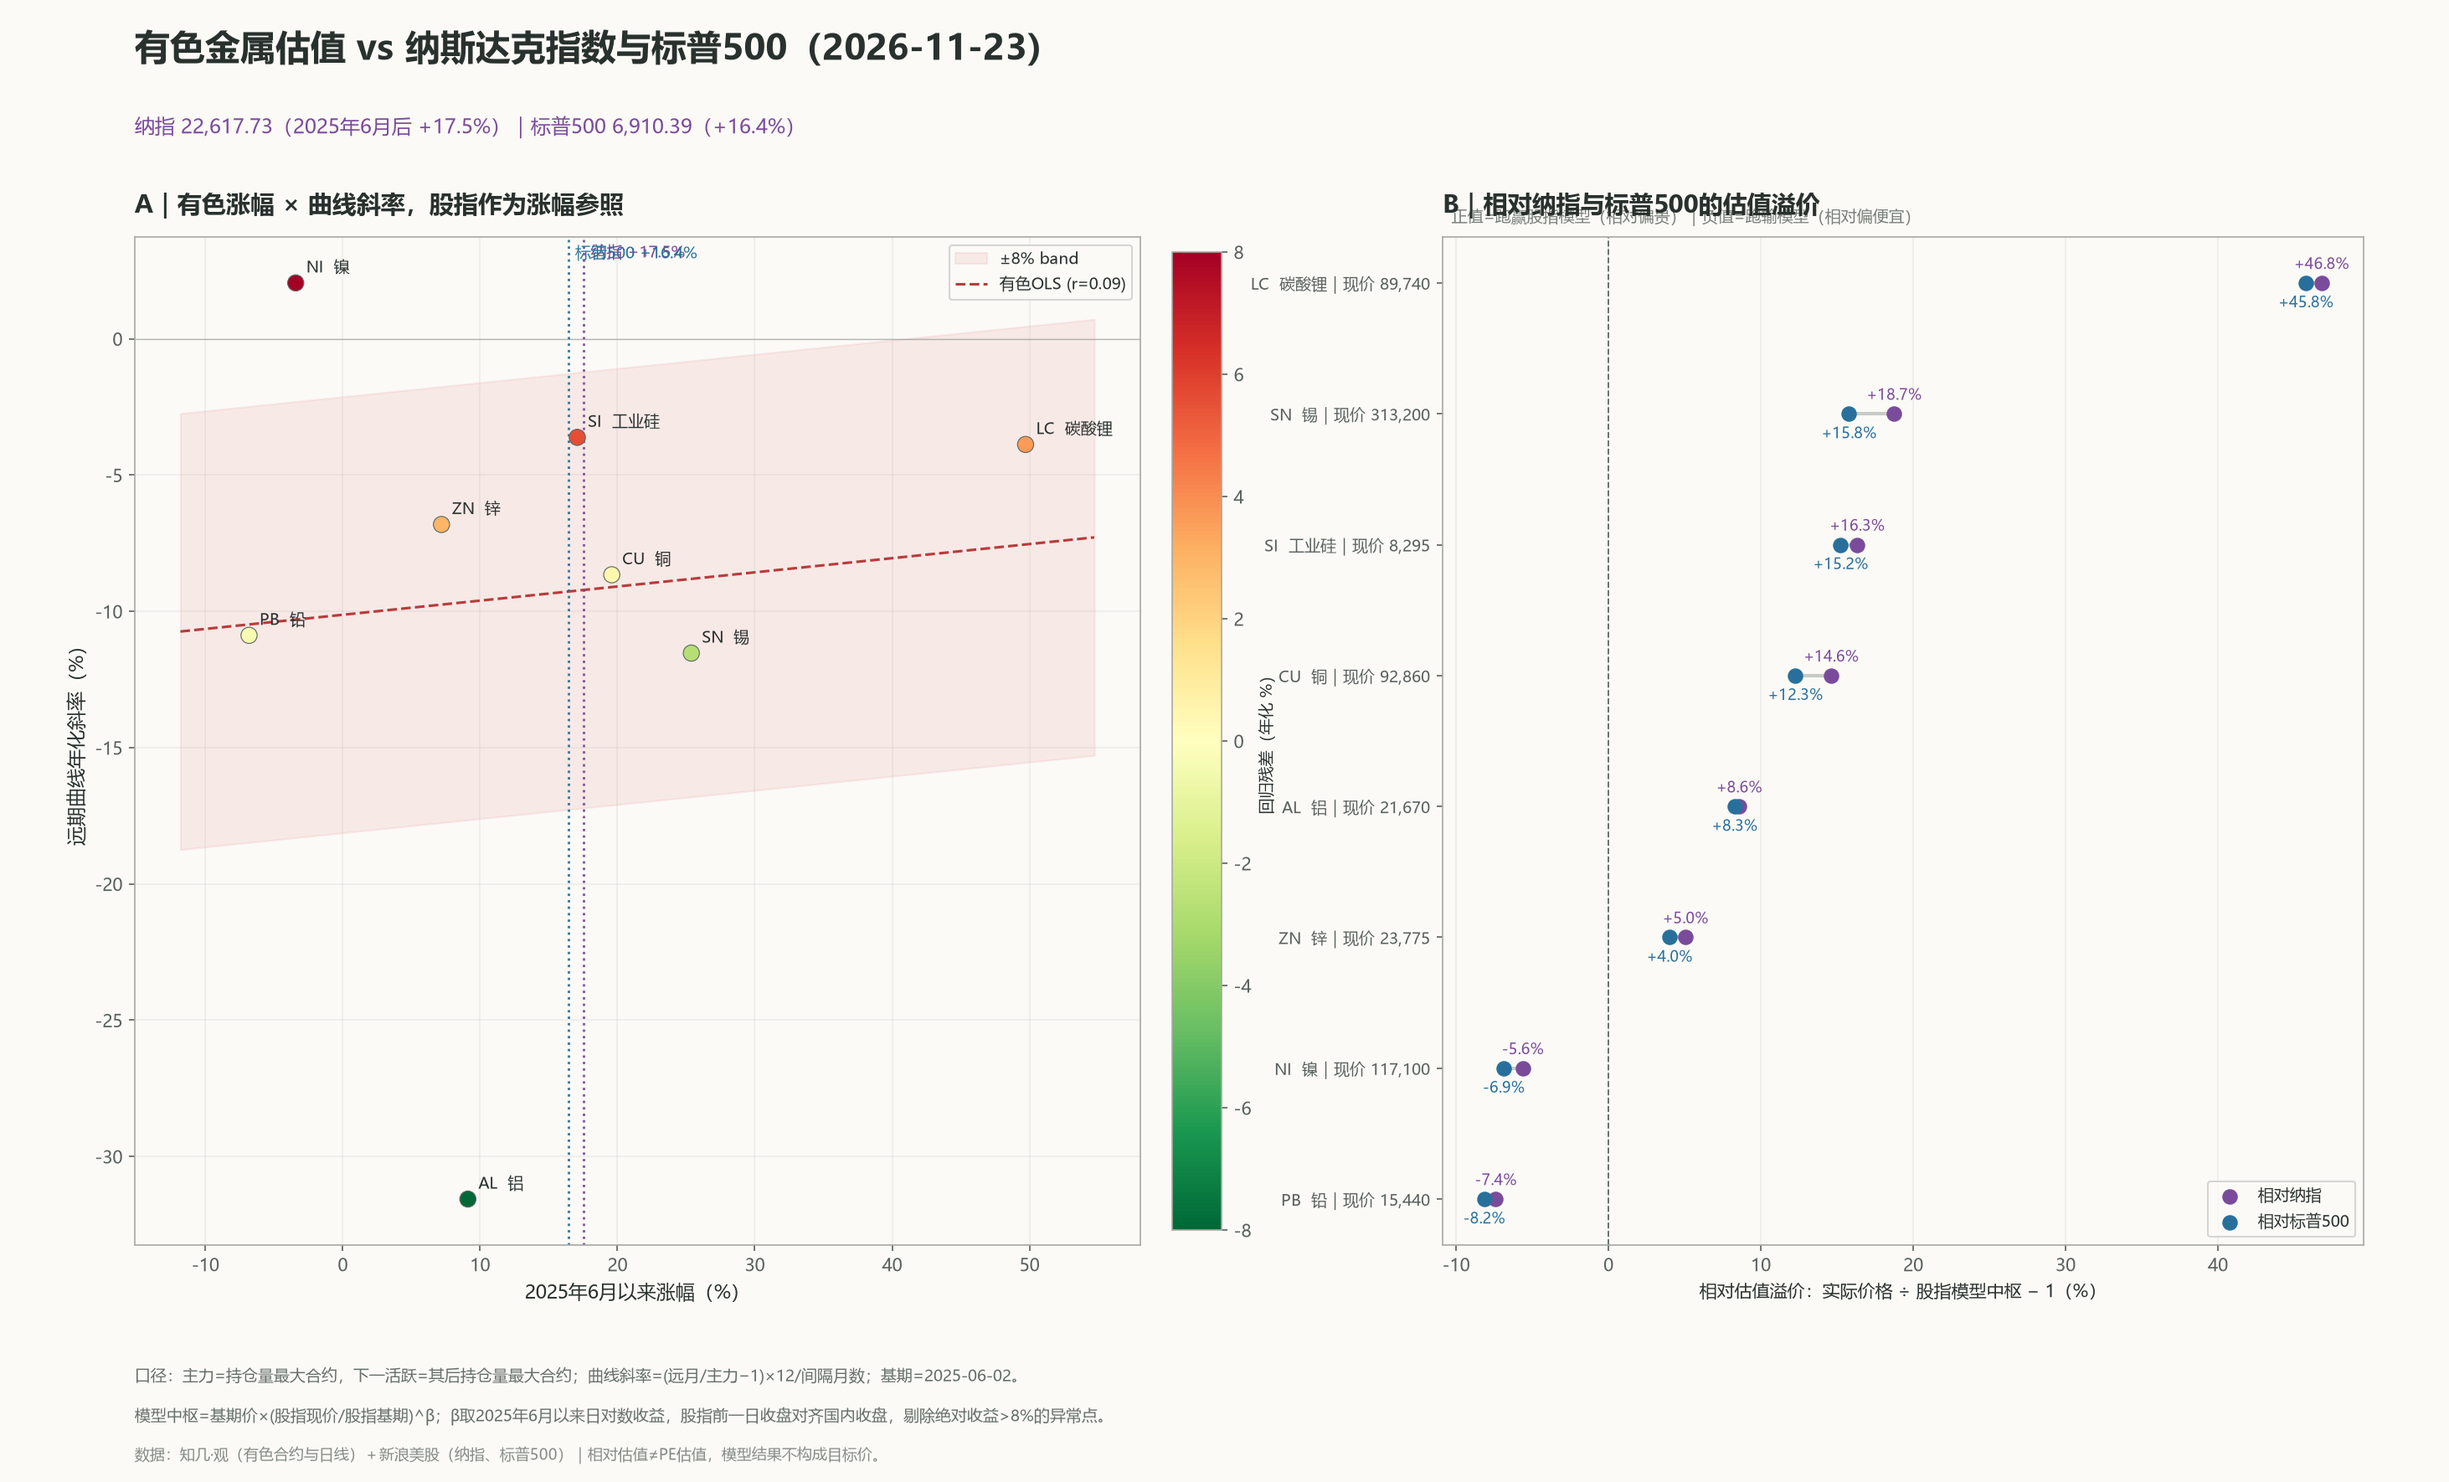
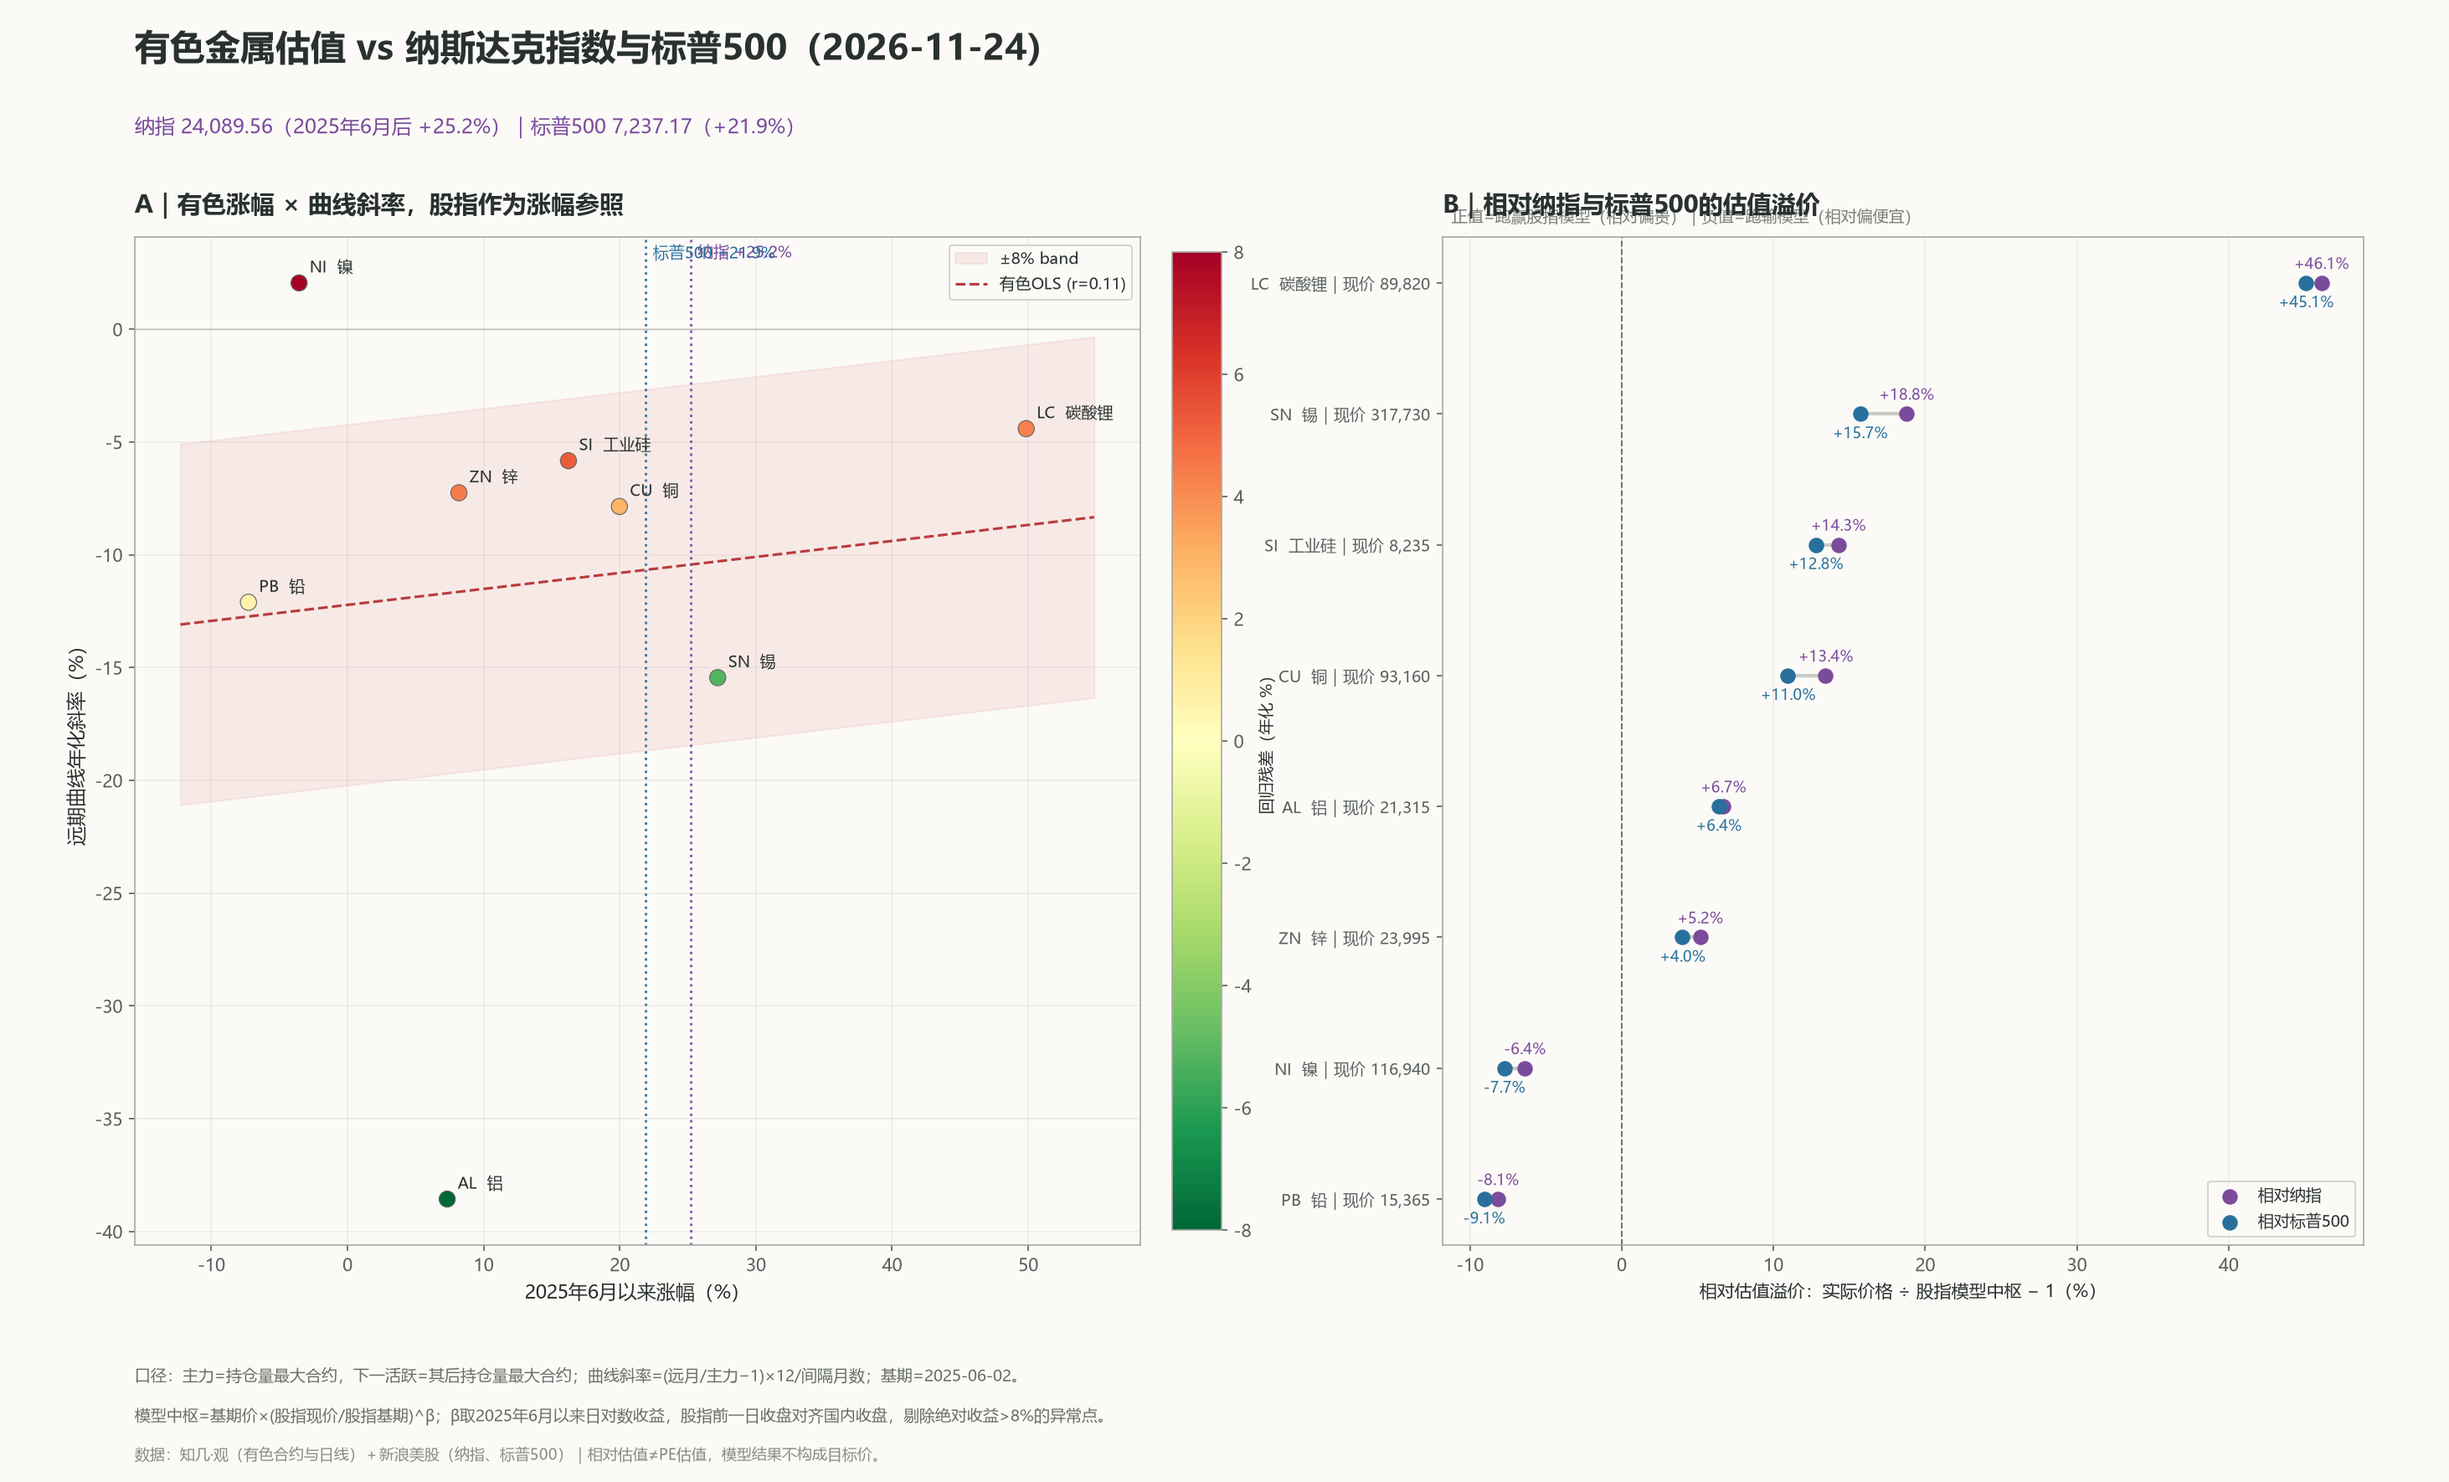
Update metals equity valuation 2026-11-24

diff --git a/valuation/index.html b/valuation/index.html
@@ -1,3 +1,3 @@
 <!doctype html><html lang='zh-CN'><head><meta charset='utf-8'><meta name='viewport' content='width=device-width,initial-scale=1'><title>有色估值 vs 纳指与标普500</title><style>
 body{margin:0;background:#f5f1e8;color:#26332e;font:14px/1.65 -apple-system,BlinkMacSystemFont,'Segoe UI','Microsoft YaHei',sans-serif}main{max-width:1180px;margin:auto;padding:42px 22px}h1{font-family:Georgia,'Songti SC',serif;font-size:34px;margin:0 0 10px}.sub{color:#7b4b9b;font-size:16px}.note{color:#746f65;font-size:12px;margin:12px 0 24px}img{display:block;width:100%;height:auto;background:#fbfaf7;border:1px solid #d8d1c3}.actions{margin:18px 0 28px;display:flex;gap:16px}a{color:#a34f39}table{width:100%;border-collapse:collapse;background:#fbf9f3;font-size:12px}th,td{padding:9px 8px;border-bottom:1px solid #ddd5c7;text-align:right;white-space:nowrap}th:first-child,td:first-child{text-align:left}.pos{color:#a34f39}.neg{color:#28709b}footer{font-size:11px;color:#746f65;margin-top:24px}@media(max-width:700px){.table{overflow-x:auto}h1{font-size:27px}}
-</style></head><body><main><h1>有色金属估值 vs 纳斯达克指数与标普500</h1><div class='sub'>纳指 22,617.73（2025年6月后 +17.5%）｜标普500 6,910.39（+16.4%）</div><div class='note'>基期：国内 2025-06-03、美股 2025-06-02｜最新：2026-11-23｜相对估值不是 PE，模型结果不构成目标价。</div><img src='chart.png' alt='有色金属与纳斯达克指数和标普500估值对照图'><div class='actions'><a href='data.csv' download>下载完整 CSV ↓</a><a href='../'>返回书桌 ↗</a></div><div class='table'><table><thead><tr><th>品种</th><th>当前主力</th><th>6月后涨幅</th><th>相对纳指</th><th>相对标普</th><th>远月年化斜率</th></tr></thead><tbody><tr><td><b>CU</b> 铜</td><td>92,860</td><td>+19.6%</td><td class="pos">+14.6%</td><td class="pos">+12.3%</td><td>-8.7%</td></tr><tr><td><b>AL</b> 铝</td><td>21,670</td><td>+9.1%</td><td class="pos">+8.6%</td><td class="pos">+8.3%</td><td>-31.6%</td></tr><tr><td><b>ZN</b> 锌</td><td>23,775</td><td>+7.2%</td><td class="pos">+5.0%</td><td class="pos">+4.0%</td><td>-6.8%</td></tr><tr><td><b>PB</b> 铅</td><td>15,440</td><td>-6.8%</td><td class="neg">-7.4%</td><td class="neg">-8.2%</td><td>-10.9%</td></tr><tr><td><b>NI</b> 镍</td><td>117,100</td><td>-3.4%</td><td class="neg">-5.6%</td><td class="neg">-6.9%</td><td>+2.0%</td></tr><tr><td><b>SN</b> 锡</td><td>313,200</td><td>+25.4%</td><td class="pos">+18.7%</td><td class="pos">+15.8%</td><td>-11.5%</td></tr><tr><td><b>LC</b> 碳酸锂</td><td>89,740</td><td>+49.7%</td><td class="pos">+46.8%</td><td class="pos">+45.8%</td><td>-3.9%</td></tr><tr><td><b>SI</b> 工业硅</td><td>8,295</td><td>+17.1%</td><td class="pos">+16.3%</td><td class="pos">+15.2%</td><td>-3.6%</td></tr></tbody></table></div><footer>数据：知几·观 + 新浪美股。模型中枢=基期价×(股指现价/基期)^β；β自2025年6月起，股指前一日收盘对齐国内收盘，剔除绝对收益>8%的异常点。每日自动更新。</footer></main></body></html>
+</style></head><body><main><h1>有色金属估值 vs 纳斯达克指数与标普500</h1><div class='sub'>纳指 24,089.56（2025年6月后 +25.2%）｜标普500 7,237.17（+21.9%）</div><div class='note'>基期：国内 2025-06-03、美股 2025-06-02｜最新：2026-11-24｜相对估值不是 PE，模型结果不构成目标价。</div><img src='chart.png' alt='有色金属与纳斯达克指数和标普500估值对照图'><div class='actions'><a href='data.csv' download>下载完整 CSV ↓</a><a href='../'>返回书桌 ↗</a></div><div class='table'><table><thead><tr><th>品种</th><th>当前主力</th><th>6月后涨幅</th><th>相对纳指</th><th>相对标普</th><th>远月年化斜率</th></tr></thead><tbody><tr><td><b>CU</b> 铜</td><td>93,160</td><td>+20.0%</td><td class="pos">+13.4%</td><td class="pos">+11.0%</td><td>-7.9%</td></tr><tr><td><b>AL</b> 铝</td><td>21,315</td><td>+7.3%</td><td class="pos">+6.7%</td><td class="pos">+6.4%</td><td>-38.6%</td></tr><tr><td><b>ZN</b> 锌</td><td>23,995</td><td>+8.2%</td><td class="pos">+5.2%</td><td class="pos">+4.0%</td><td>-7.3%</td></tr><tr><td><b>PB</b> 铅</td><td>15,365</td><td>-7.3%</td><td class="neg">-8.1%</td><td class="neg">-9.1%</td><td>-12.1%</td></tr><tr><td><b>NI</b> 镍</td><td>116,940</td><td>-3.6%</td><td class="neg">-6.4%</td><td class="neg">-7.7%</td><td>+2.1%</td></tr><tr><td><b>SN</b> 锡</td><td>317,730</td><td>+27.2%</td><td class="pos">+18.8%</td><td class="pos">+15.7%</td><td>-15.4%</td></tr><tr><td><b>LC</b> 碳酸锂</td><td>89,820</td><td>+49.8%</td><td class="pos">+46.1%</td><td class="pos">+45.1%</td><td>-4.4%</td></tr><tr><td><b>SI</b> 工业硅</td><td>8,235</td><td>+16.2%</td><td class="pos">+14.3%</td><td class="pos">+12.8%</td><td>-5.8%</td></tr></tbody></table></div><footer>数据：知几·观 + 新浪美股。模型中枢=基期价×(股指现价/基期)^β；β自2025年6月起，股指前一日收盘对齐国内收盘，剔除绝对收益>8%的异常点。每日自动更新。</footer></main></body></html>
